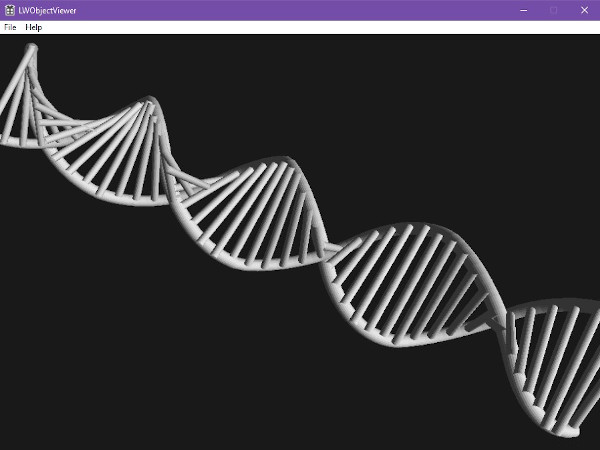
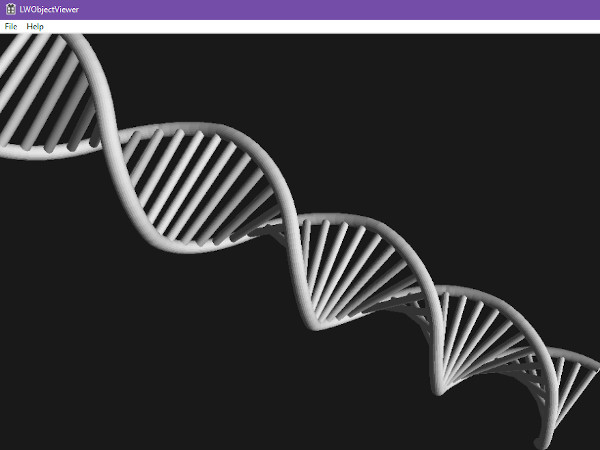
Update screenshot with corrected image after depth-rendering fix

Changed region(s): [[0.0, 0.0, 1.0, 1.0], [0.96, 0.0, 0.99, 0.0311]]

diff --git a/README.md b/README.md
@@ -24,8 +24,7 @@ file onto the window to display it.
 
 - Added generalized algorithm to split n-sided polygons. Previously, polygons with more than 4 vertices were being skipped.
 - Added support for changing the view distance using the mouse wheel.
-- The camera view is now positioned a suitable distance away when an object is initially loaded.
-- Fixed an issue where some objects weren't being shaded properly due to very small vertex normals.
+- The camera view is now initially positioned a suitable distance away when an object is loaded.
 
 
 ## Technical
@@ -71,8 +70,7 @@ work will be on the file parsing side rather than D3D.
 Some improvements I'd like to make next, in rough priority order:
 
 - Some code refactoring.
-- Add more view interactions such as rotation
+- Add more view interactions such as rotation.
 - Handle more LightWave surface attributes (e.g. color, reflectivity, etc) and improve the shader.
 - Additional UI to tweak the display.
 - Support LWO3 and test on a wider range of objects.
-
